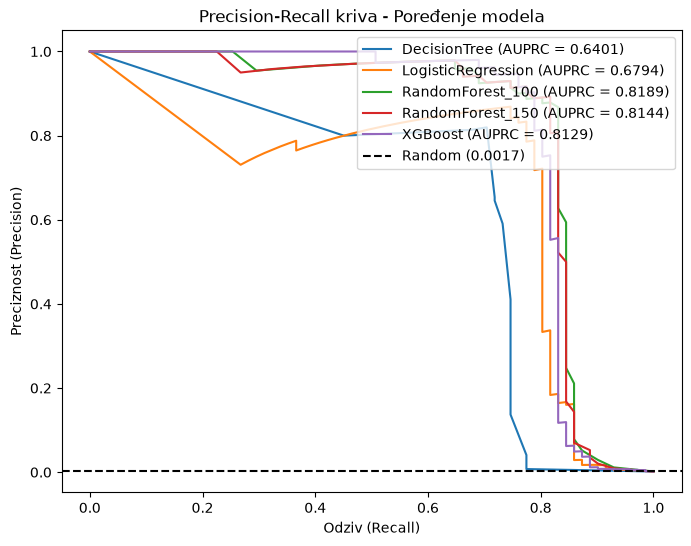
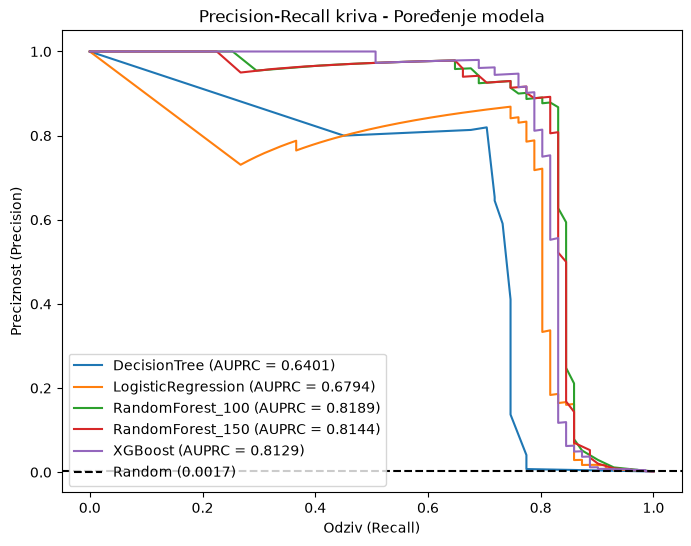
PR kriva: legenda u donji levi ugao da ne pokriva krive

Changed region(s): [[0.5166, 0.0623, 0.9725, 0.3114], [0.0912, 0.6538, 0.547, 0.8718]]

diff --git a/src/evaluate.py b/src/evaluate.py
@@ -207,7 +207,7 @@ def evaluate_models(test_data_path, models_dir, figures_dir, metrics_dir):
     plt.xlabel('Odziv (Recall)')
     plt.ylabel('Preciznost (Precision)')
     plt.title('Precision-Recall kriva - Poređenje modela')
-    plt.legend(loc='upper right')
+    plt.legend(loc='lower left')
     pr_fig_path = os.path.join(figures_dir, 'pr_curve.png')
     plt.savefig(pr_fig_path, bbox_inches='tight')
     plt.close()